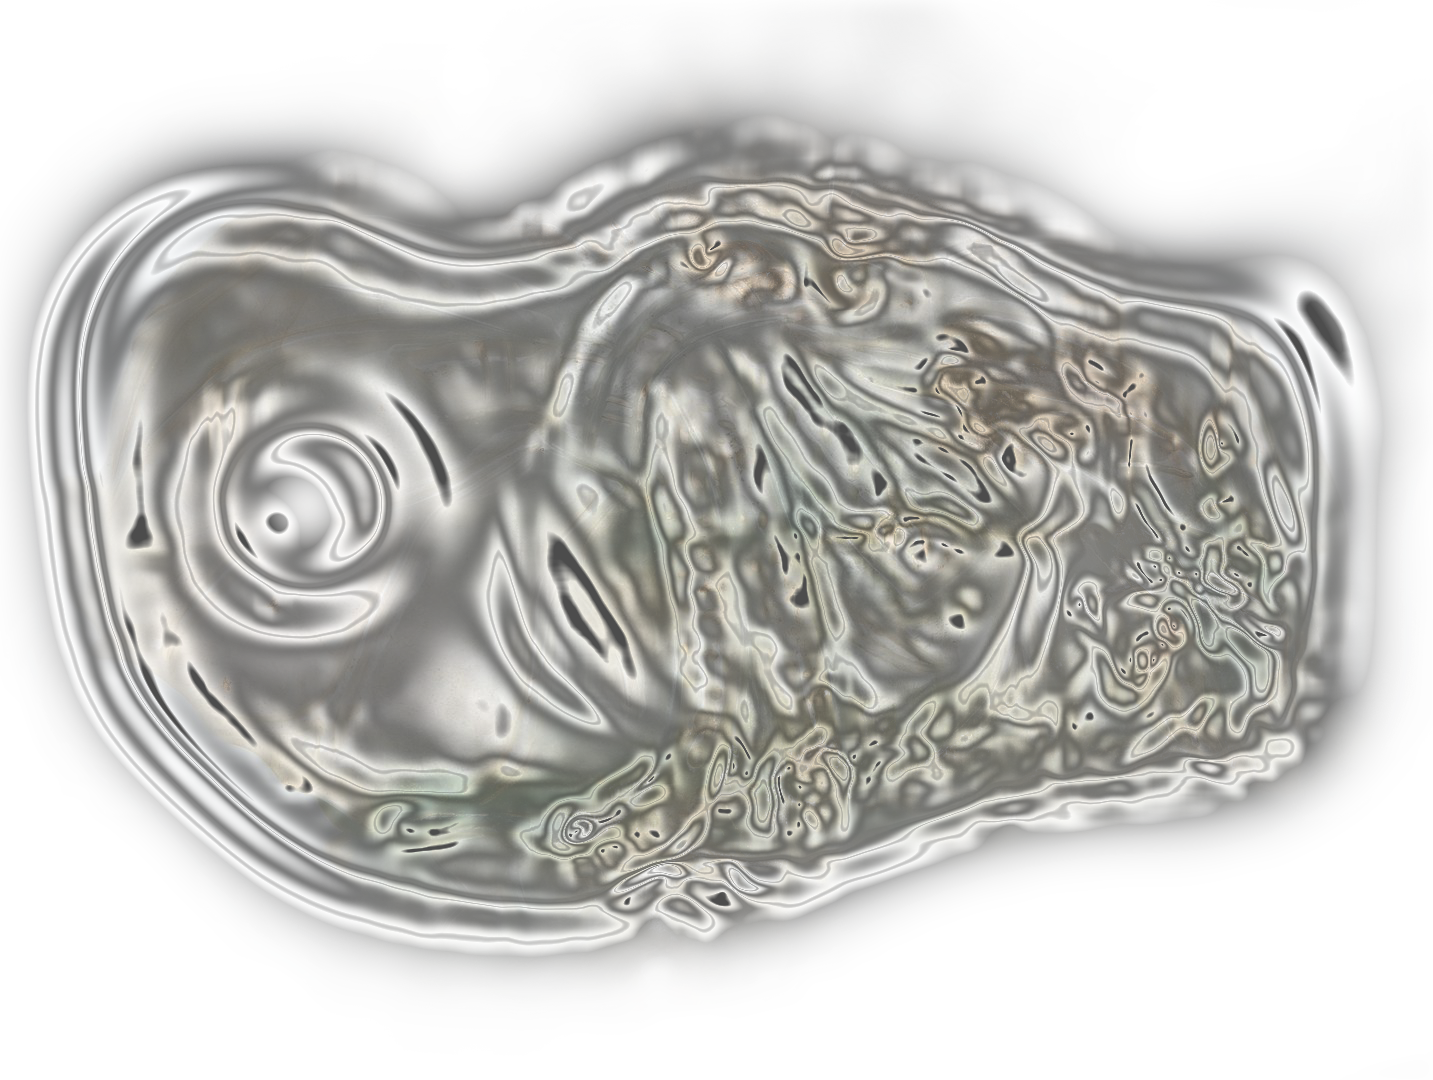
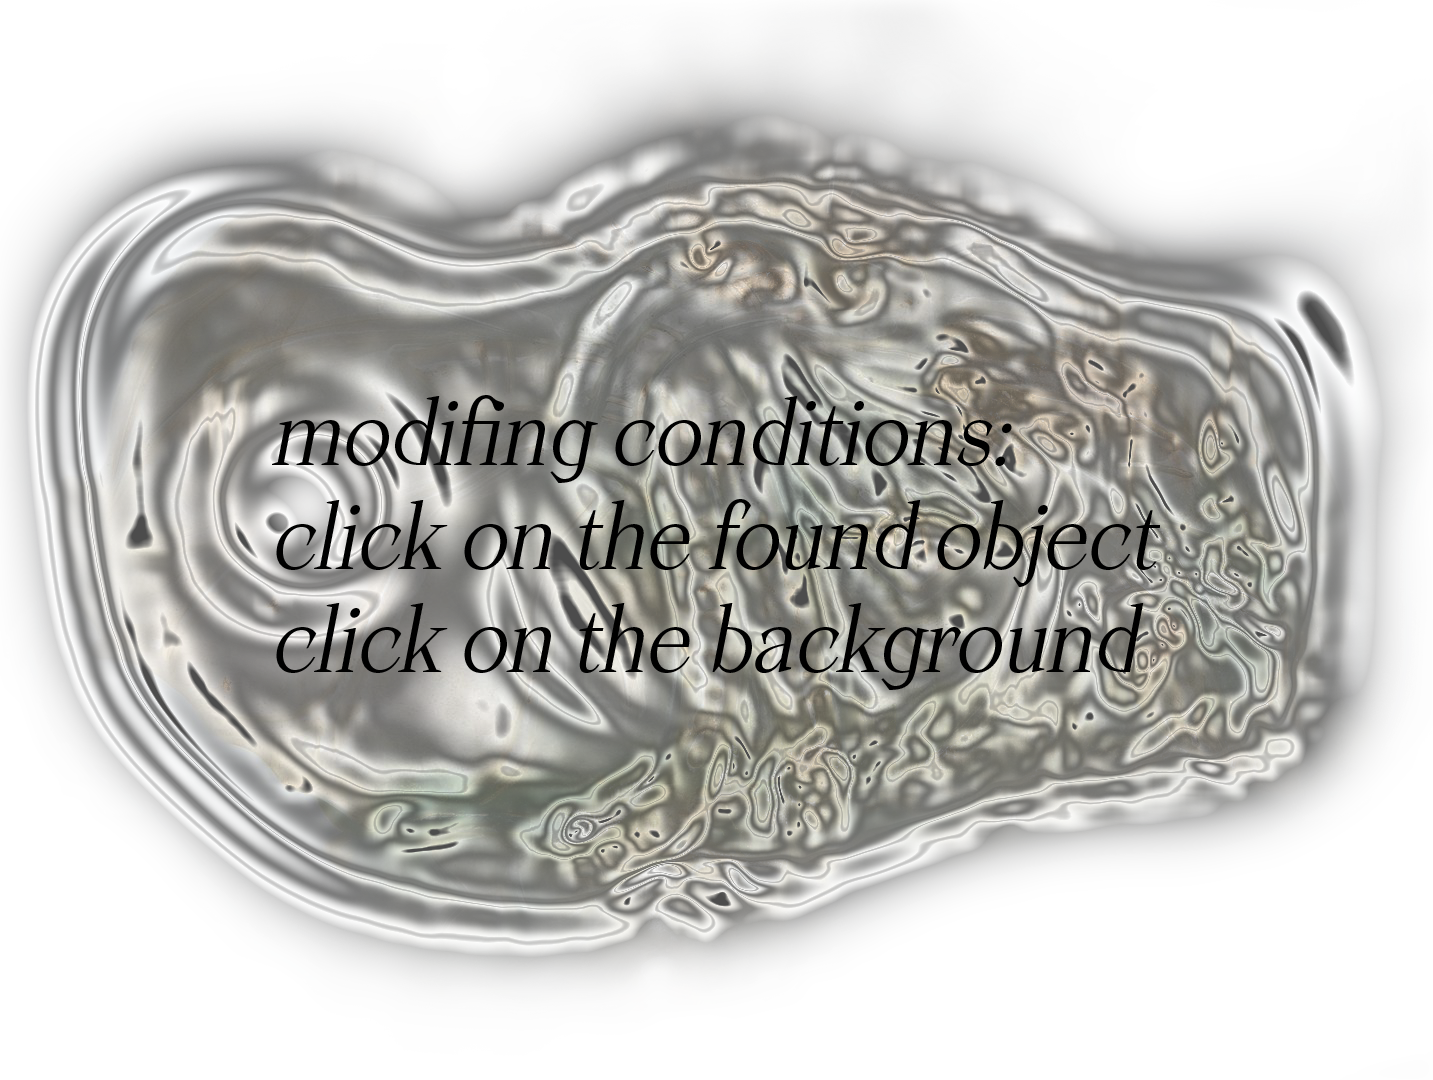
edit

Changed region(s): [[0.1842, 0.4583, 0.7983, 0.6417], [0.1842, 0.3667, 0.7062, 0.4583]]

diff --git a/index.htm b/index.htm
@@ -11,15 +11,17 @@
 <br>
 <br>
 
-<!-- <div class="sticky"> ~ </div>  -->
+
 
 
 	<div class="image-container">
-		<img src="images/X1.jpg" id="click-change"/>
+		<img src="images/H.png" id="click-change"/>
 	</div>
 
 
-
+<!-- <div class="sticky"> modifing conditions:
+<br>click on the found object
+click on the background </div>  -->
 
 
 <!-- <div class="hover-title">Image Hover One</div>

diff --git a/js.js b/js.js
@@ -1,6 +1,7 @@
 
 var image_index = 0;
 var images = [
+'H.png',
 'X1.jpg',
 'X2.png',
 'X3.jpg',
